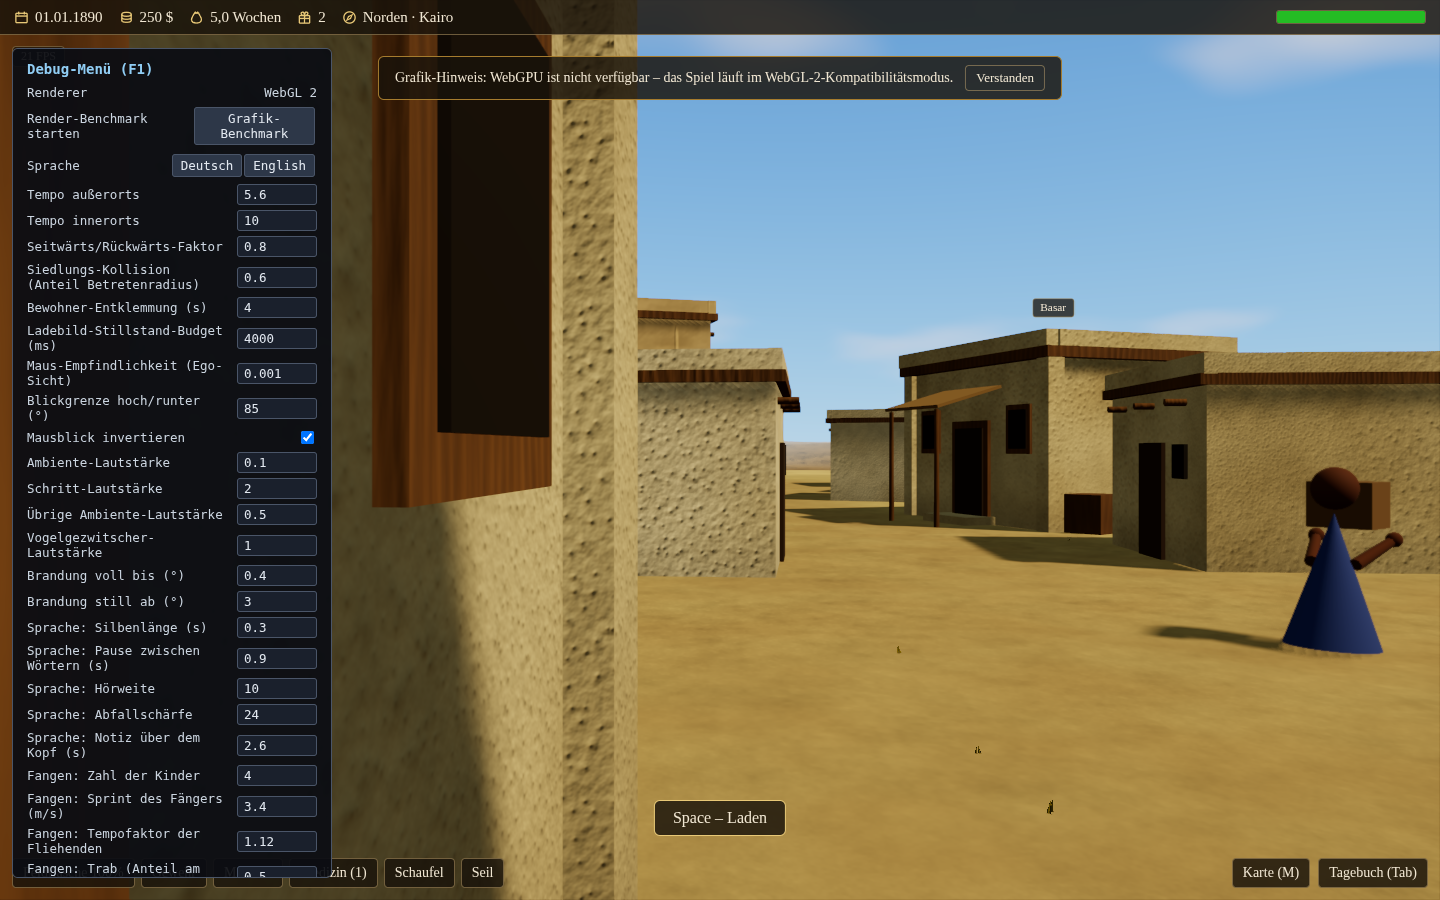
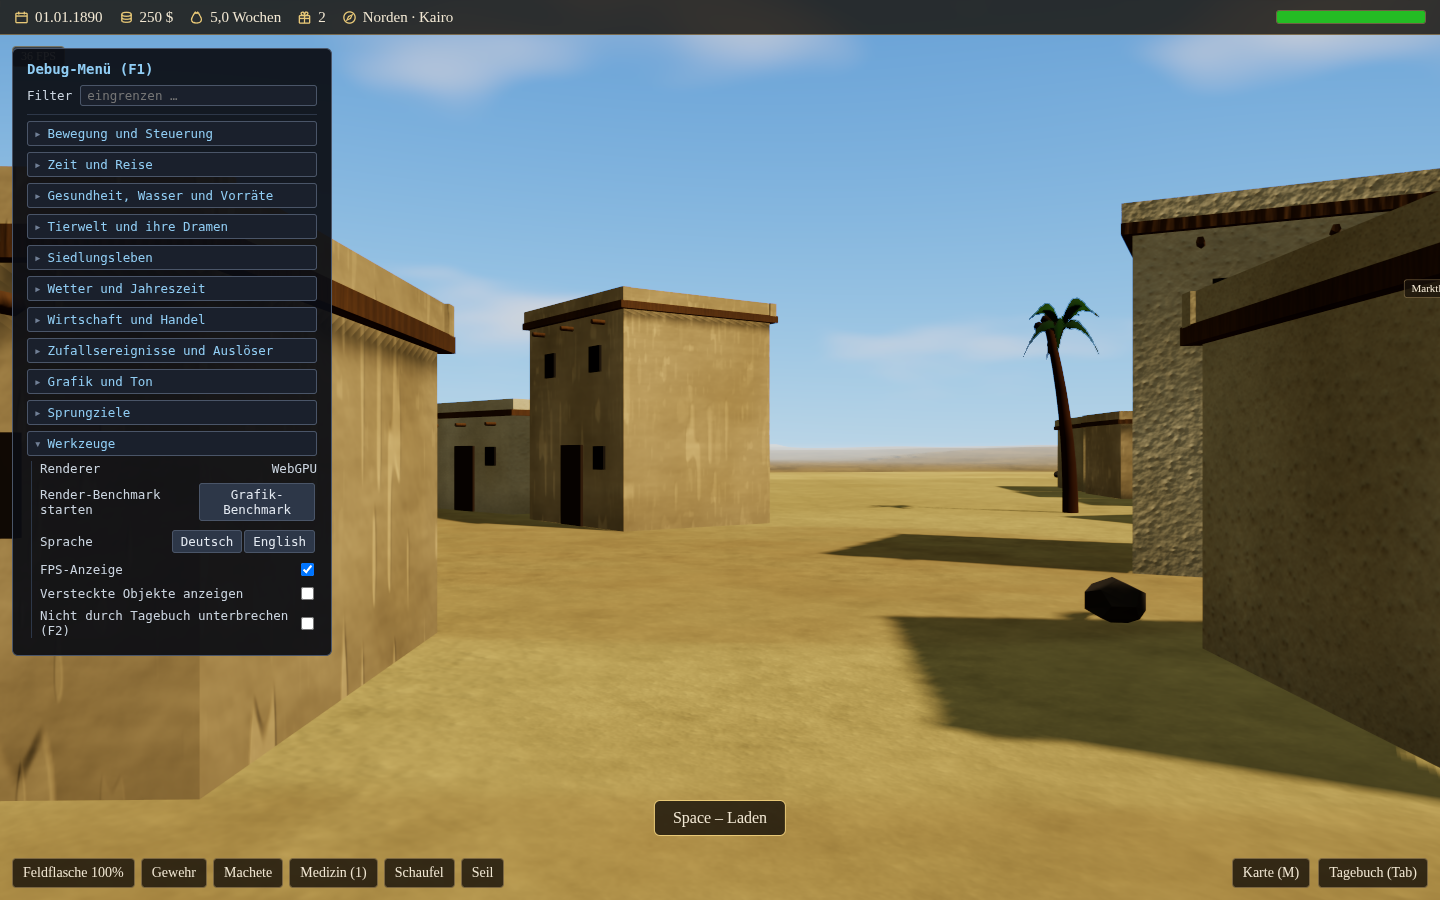
Give the debug filter the row's full width and show its group in the frame
Two things the picture caught that no assertion did. The filter field kept the
fixed 150 px of the numeric fields, so its German hint was cut off mid-word; it
now takes the row's whole remaining width, and both hints are shortened to the
one word that is left to say. And frame 58, labelled "the debug menu language
selector", showed a menu whose groups are all collapsed — the selector sits in
"tools" now, so the suite opens that group before the shutter fires, else the
frame would be filed as evidence of something it does not show.

Verified on both backends: the settings suite (WebGL 2) and the i18n suite
(WebGL 2 and WebGPU) are green, and the frames show the menu the change
describes.

diff --git a/src/index.css b/src/index.css
@@ -1362,6 +1362,14 @@ textarea {
   margin-bottom: 4px;
 }
 
+/* The filter takes the row's whole remaining width: its hint must not be cut
+   off, and the German one is the longer of the two. */
+.debug-menu .debug-filter input {
+  flex: 1;
+  min-width: 0;
+  width: auto;
+}
+
 .debug-menu .debug-empty {
   margin: 8px 0 0;
   color: #a0aec0;

diff --git a/src/i18n/de.ts b/src/i18n/de.ts
@@ -430,7 +430,7 @@ export const de: Strings = {
   debug: {
     title: 'Debug-Menü (F1)',
     filter: 'Filter',
-    filterHint: 'tippen zum Eingrenzen …',
+    filterHint: 'eingrenzen …',
     filterEmpty: 'Kein Regler passt.',
     groups: {
       movement: 'Bewegung und Steuerung',

diff --git a/src/i18n/en.ts b/src/i18n/en.ts
@@ -429,7 +429,7 @@ export const en: Strings = {
   debug: {
     title: 'Debug Menu (F1)',
     filter: 'Filter',
-    filterHint: 'type to narrow …',
+    filterHint: 'narrow …',
     filterEmpty: 'No control matches.',
     groups: {
       movement: 'Movement and controls',
